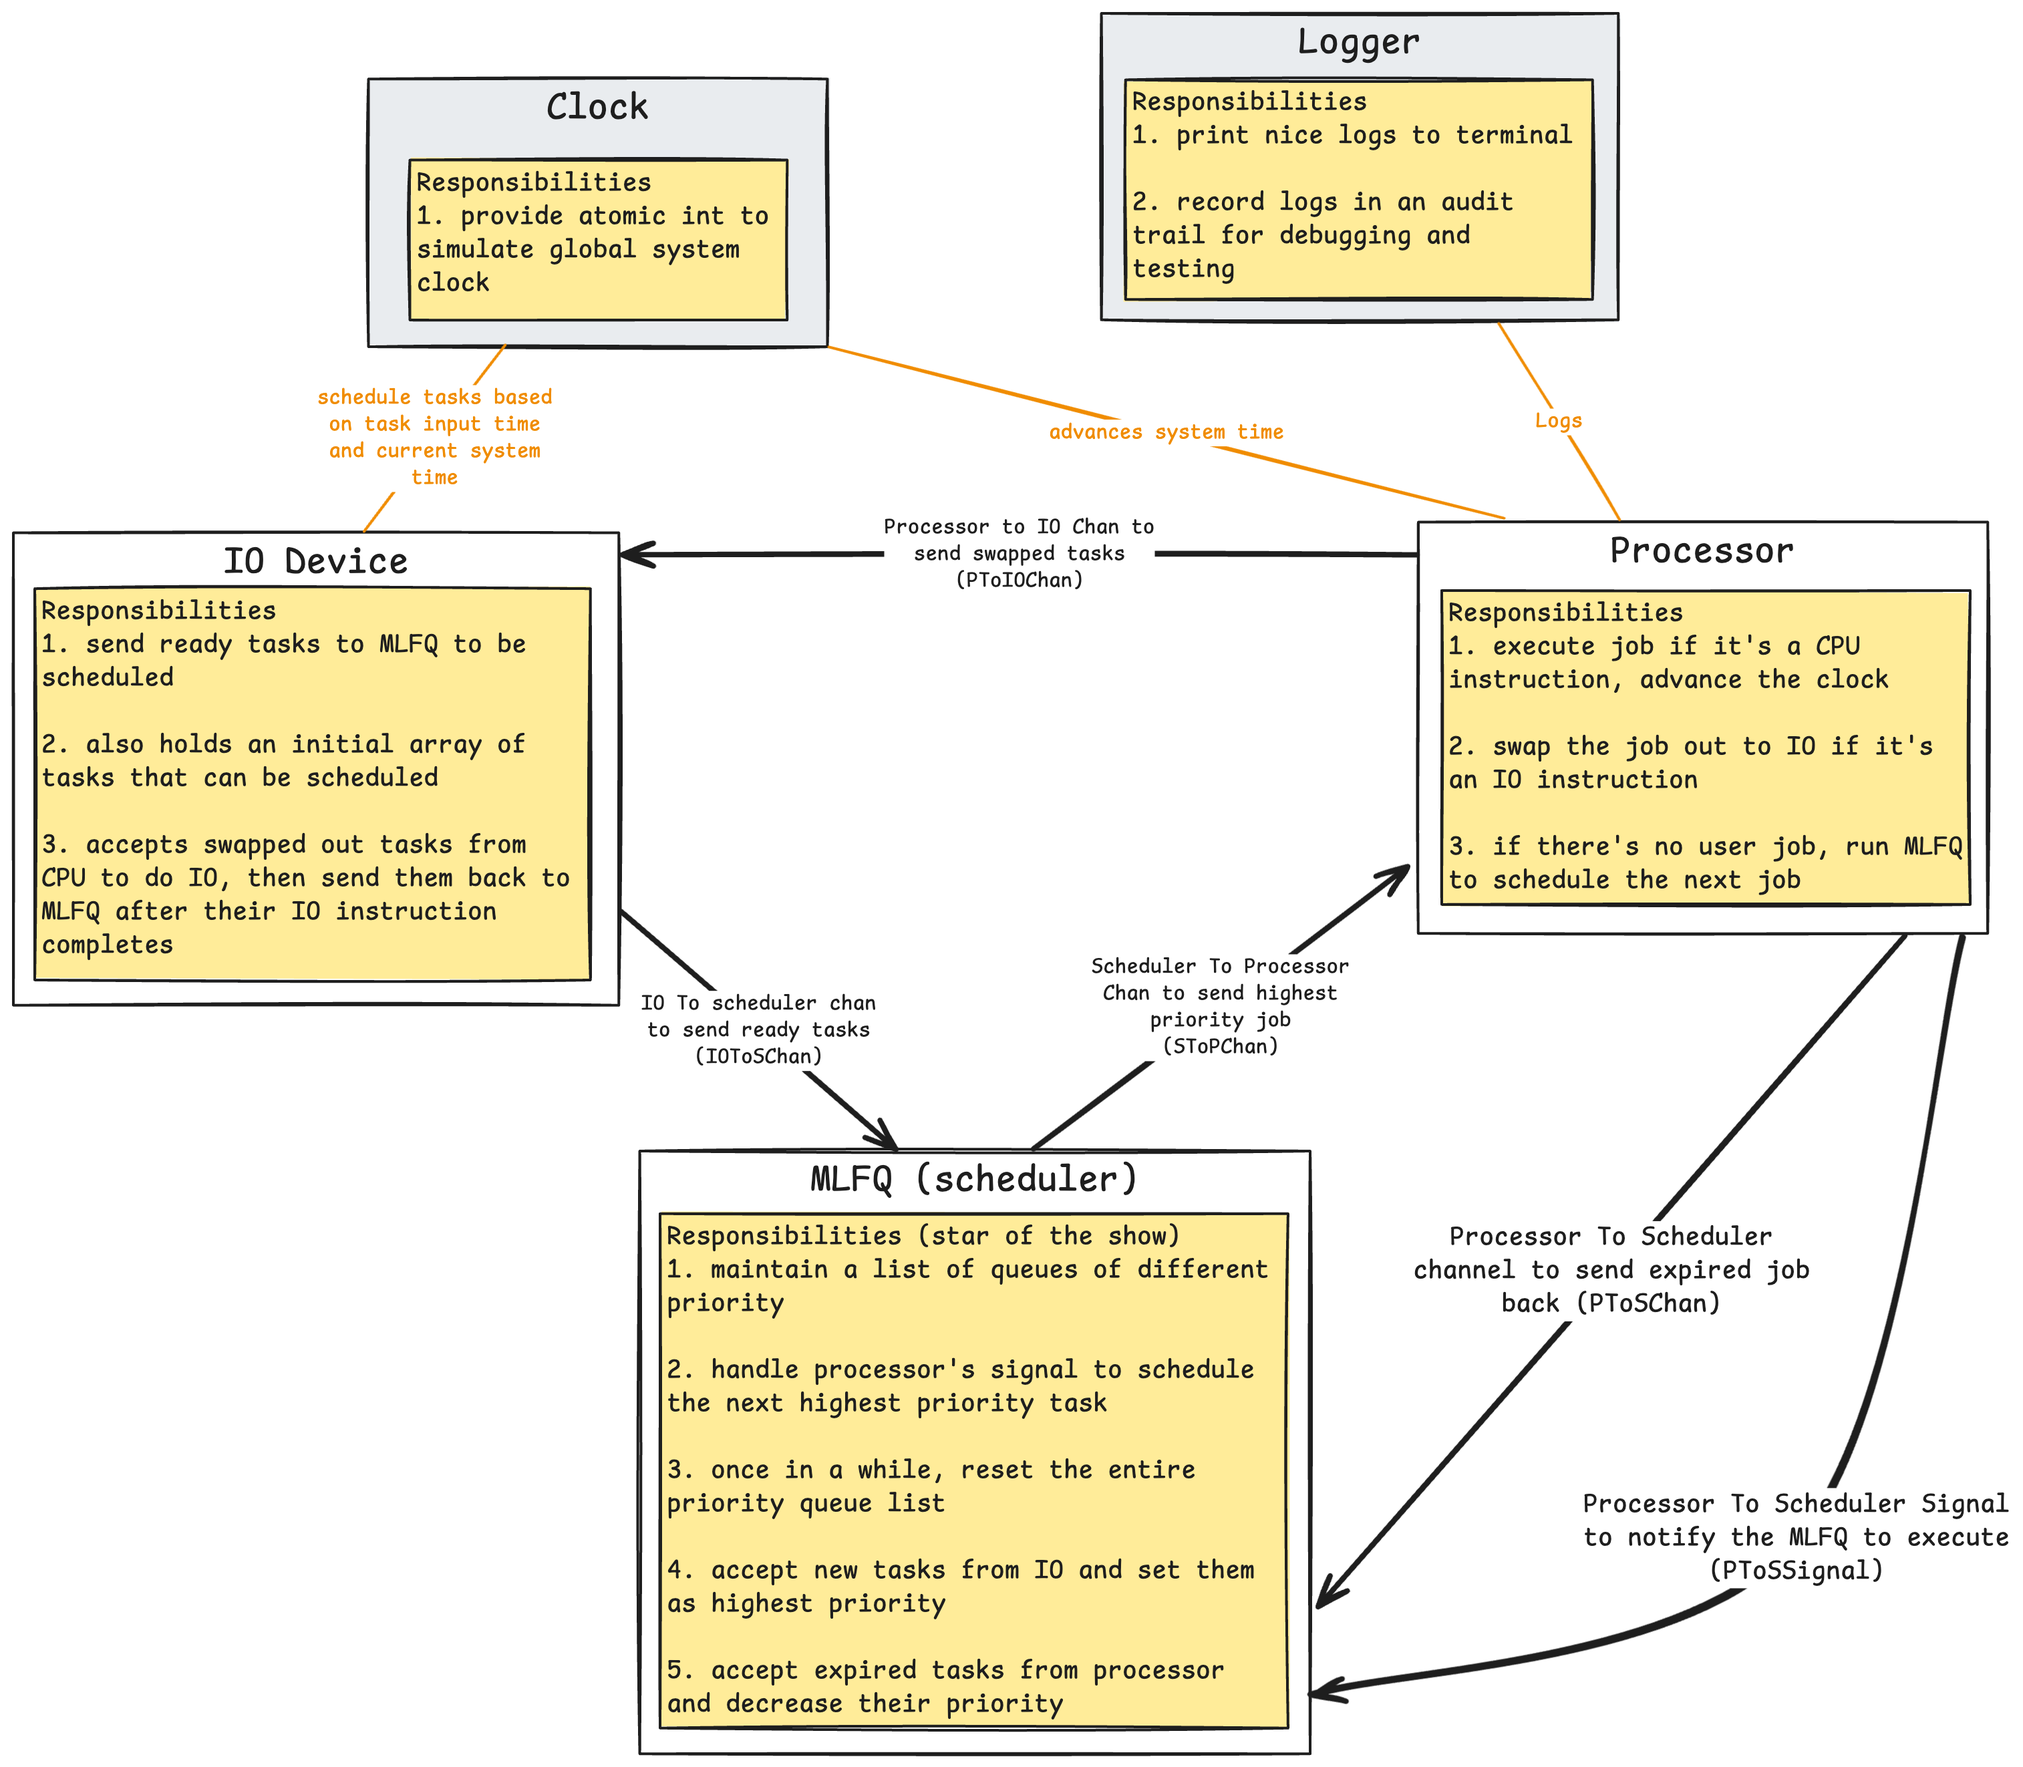
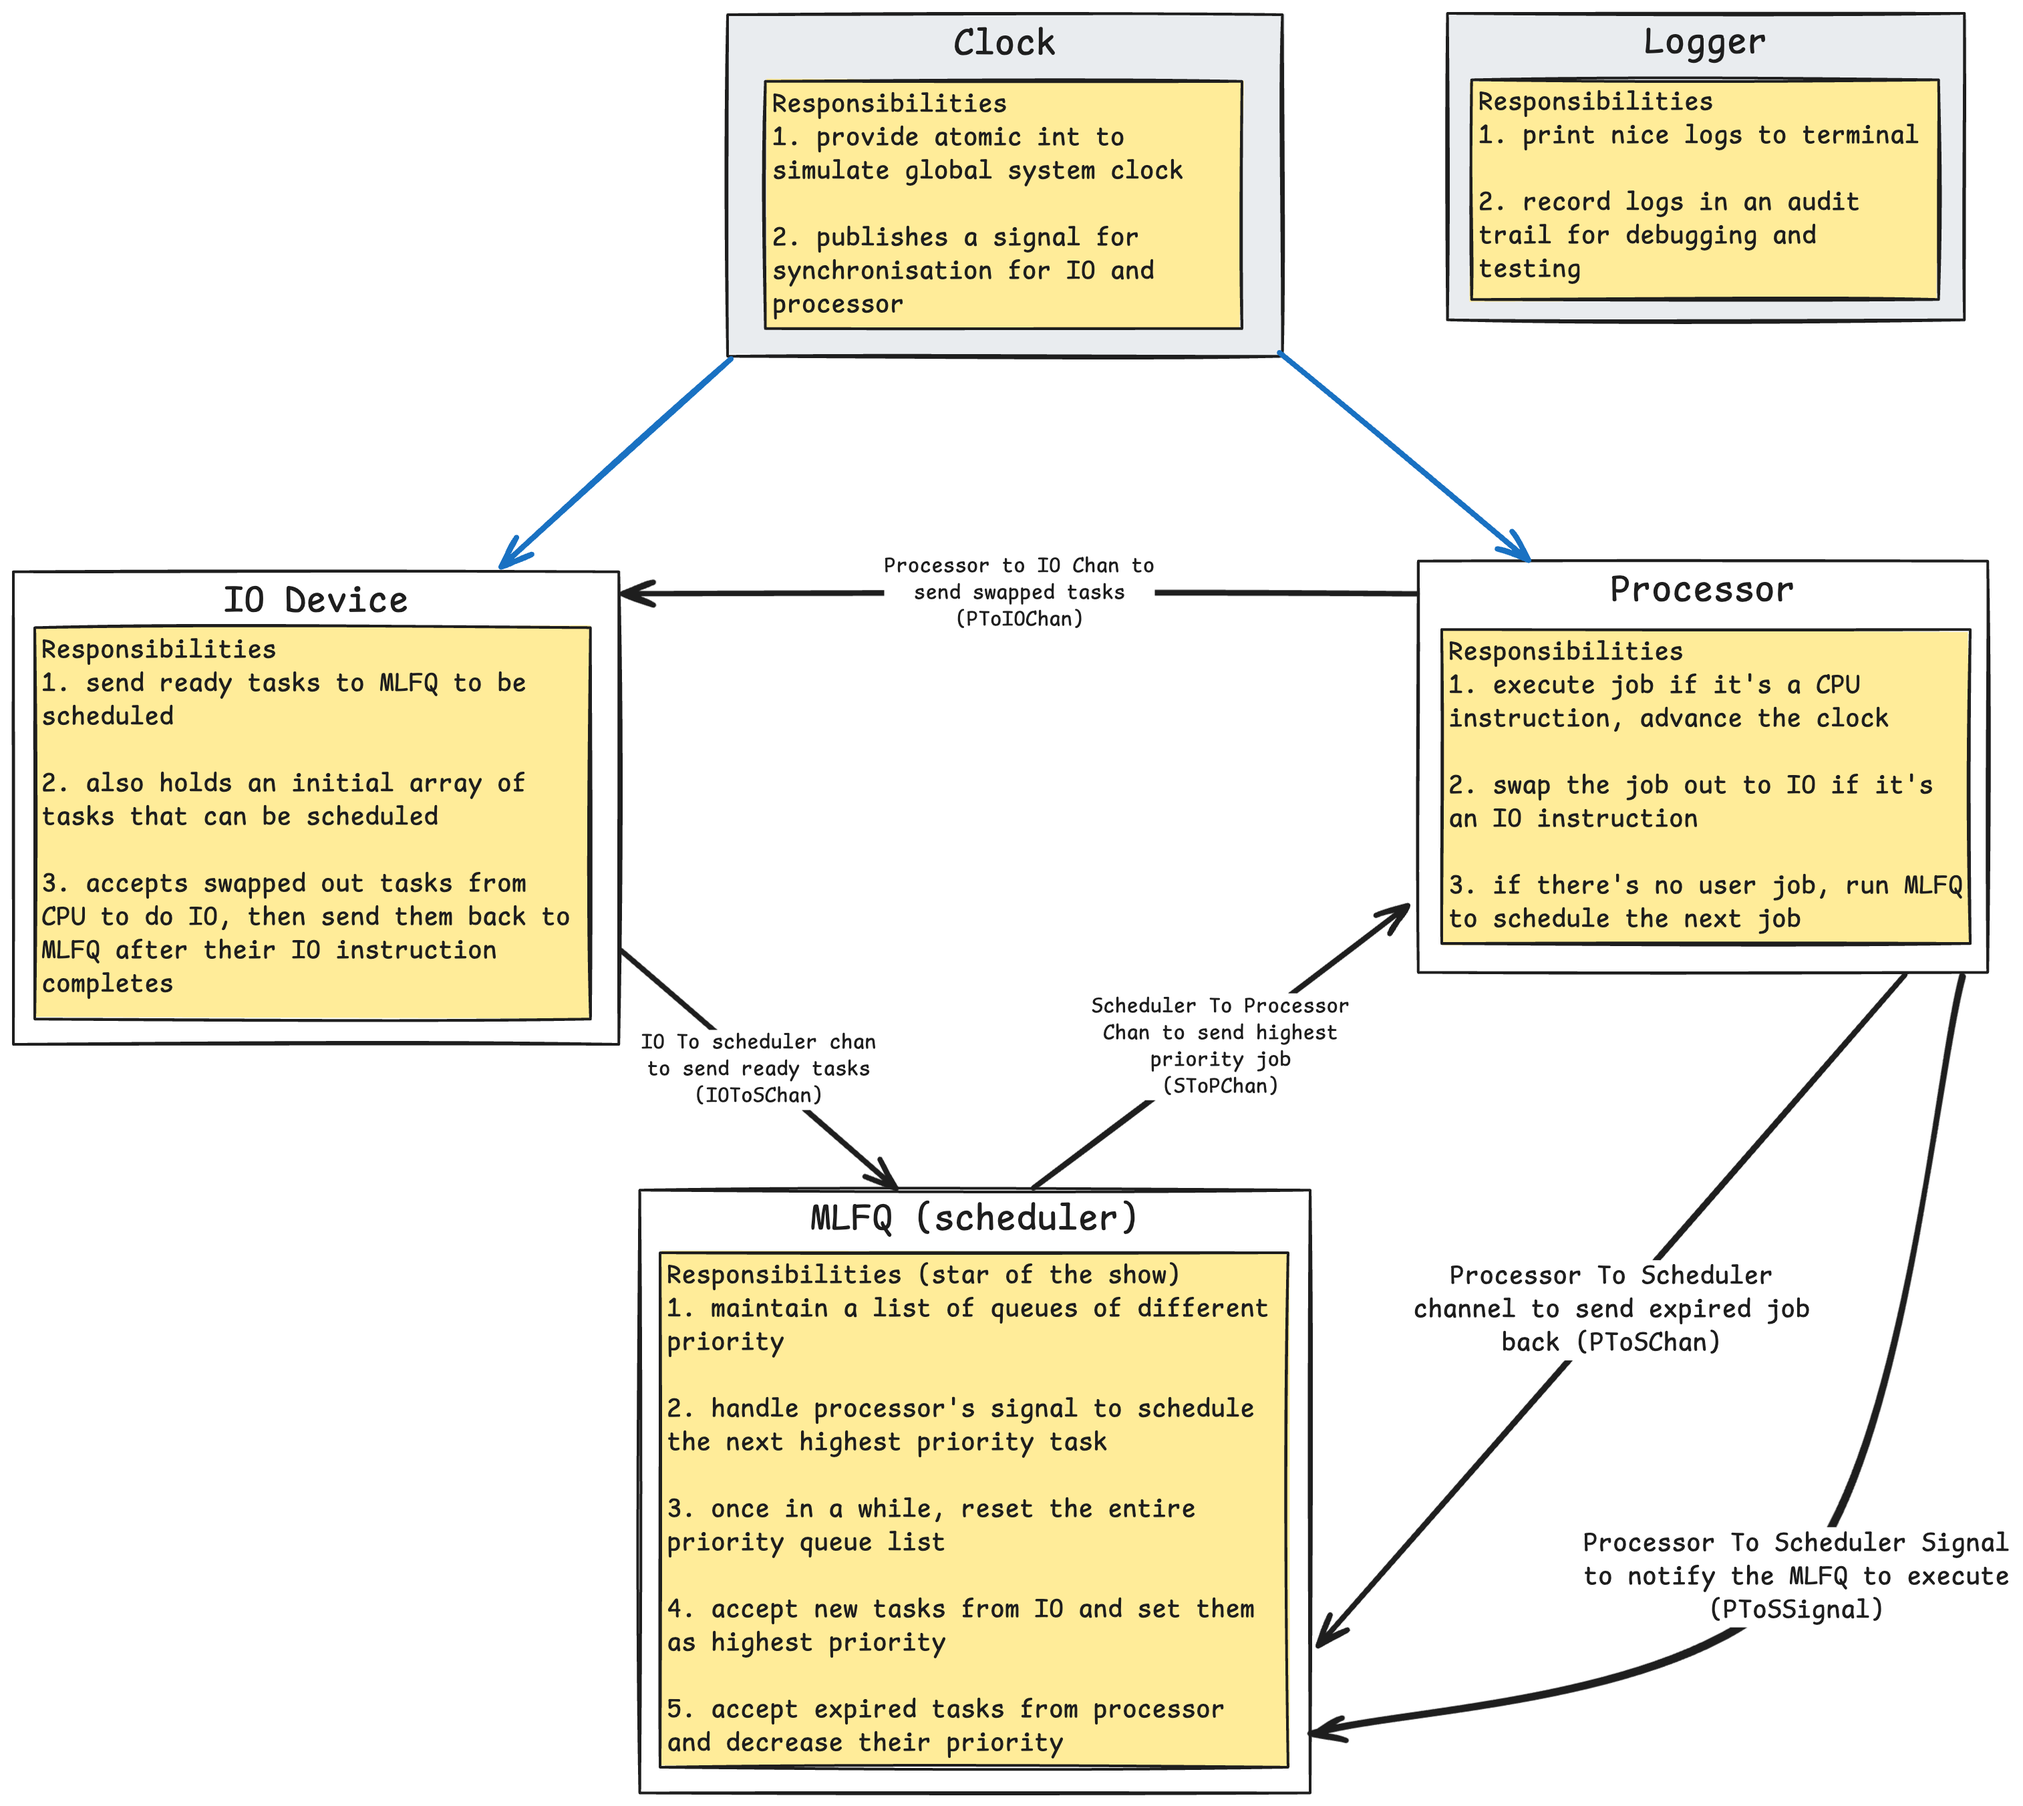
update mlfq design

diff --git a/2-os/2-scheduling/2-3-mlfq/1-mlfq-design.md b/2-os/2-scheduling/2-3-mlfq/1-mlfq-design.md
@@ -25,6 +25,10 @@ Using the MLFQ concepts listed from the previous [chapter](https://isbobby.githu
 1. We will have a logical IO device to perform IO instruction
 2. This logical IO device will send ready jobs that have completed IO instructions back to MLFQ, waiting to be scheduled again
 
+**Synchronisation with clock**:
+1. A logical clock will be used to synchronise IO and CPU execution
+2. This logical clock will send a signal to components subcribed every set duration
+
 With these requirements, we can start off with 3 main components - `IO Device`,`MLFQ Scheduler`, and `Processor`. We should also include `Clock` and `Logger` to track the system time and perform structured logging.
 
 ![](1-mlfq-design_base_design.png)
